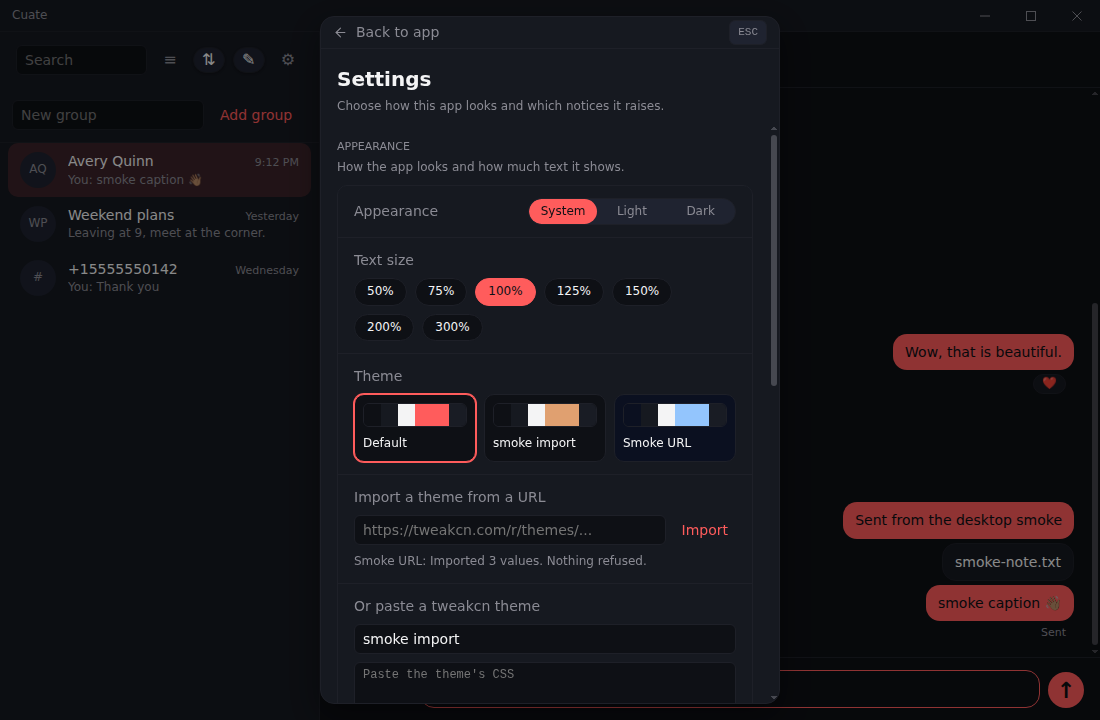
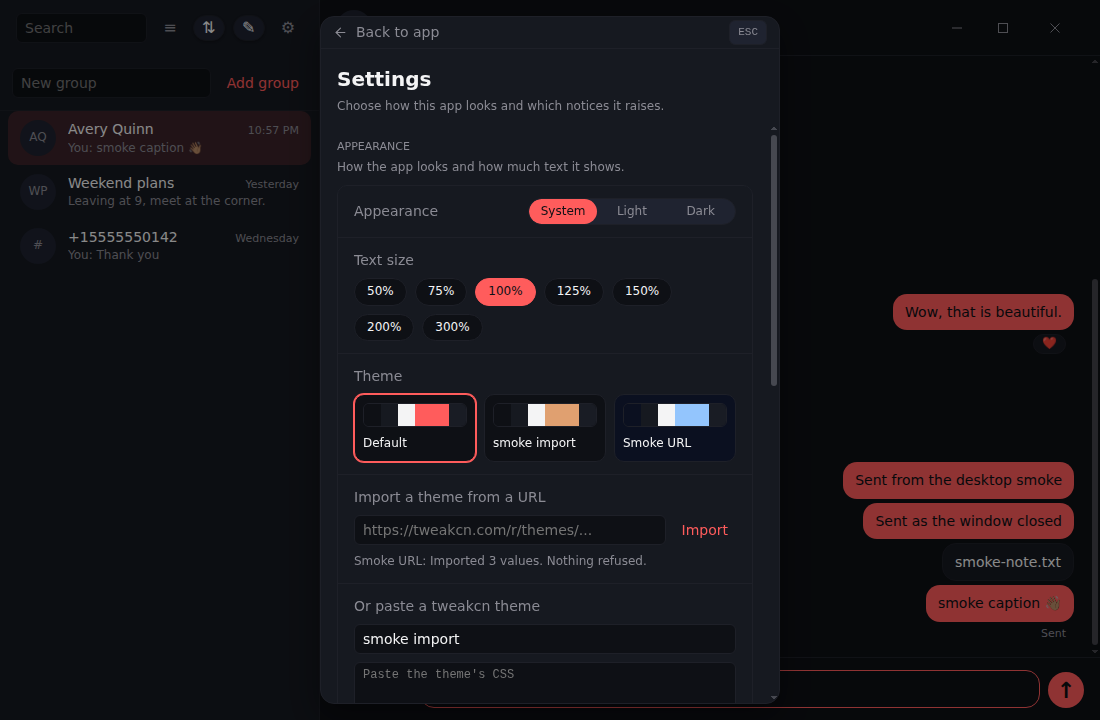
fix(app): the sidebar Add group control stays on one line, and the theme picker captures are retaken (#124)
* fix(app): the sidebar's Add group control stays on one line

The Add group button sat in a flex row beside the new group field with no
nowrap and the default shrink, so whenever the row ran short (a scrollbar in
the list on Linux, a larger text size) the field kept its width and the label
broke onto two lines. The field now gives way first and the label keeps the
width it needs; where the label alone would need more than half the row, as at
300% text in the fixed-width sidebar, it shortens with an ellipsis like the
chat names in the same column, and its title carries the whole label. What the
control does is unchanged.

The desktop smoke now holds it on every desktop platform: at the smallest
window the shell allows and at 50, 100, 200 and 300% text it counts the
label's lines and checks the button's height against one line, and at 100% it
requires the full label. It captures the control at 100, 200 and 300%.

Fixes #122

* docs(proof): retake the theme picker and Linux window chrome captures

The theme picker captures from #119 were taken before #116 merged, so they
still showed the old window bar; the Linux window chrome capture from #116
showed the Add group label wrapped. All three are retaken from this branch's CI
(the ubuntu desktop smoke and the window chrome proof), and the Add group
control is captured at 100, 200 and 300% text at the smallest window: Linux at
each size, macOS and Windows at 300%. Fixture data only.

diff --git a/desktop/src/main.js b/desktop/src/main.js
@@ -362,6 +362,44 @@ async function runSmoke(w) {
   const cdp = (method, params) => wc.debugger.sendCommand(method, params);
   const putSettings = (values) => fetch(srv + '/api/v1/settings', { method: 'PUT', headers: { ...auth, 'content-type': 'application/json' }, body: JSON.stringify({ values }) });
 
+  // The sidebar's Add group control stays on one line (issue 122): at the smallest window the shell allows and at every
+  // text size from 50% to 300%, the label renders as one line, in full at 100%, and shortens with an ellipsis rather
+  // than wrapping where the row is too narrow for it. The line count is read from the label's own text boxes and
+  // checked against the button's height, so a wrap fails here on whichever platform drew it.
+  if (!wc.debugger.isAttached()) wc.debugger.attach('1.3');
+  const [minW, minH] = w.getMinimumSize();
+  await cdp('Emulation.setDeviceMetricsOverride', { width: minW, height: minH, deviceScaleFactor: 1, mobile: false });
+  const addGroupLine = () => js(`(() => {
+    const b = document.querySelector('.add-group .add-group-button');
+    if (!b) return null;
+    const s = getComputedStyle(b);
+    const size = parseFloat(s.fontSize);
+    const line = parseFloat(s.lineHeight) || size * 1.2;
+    const inner = b.getBoundingClientRect().height - ['paddingTop', 'paddingBottom', 'borderTopWidth', 'borderBottomWidth'].reduce((n, k) => n + (parseFloat(s[k]) || 0), 0);
+    const range = document.createRange();
+    range.selectNodeContents(b);
+    const lines = new Set([...range.getClientRects()].filter((r) => r.width > 0).map((r) => Math.round(r.top))).size;
+    return { size, line, inner, lines, full: b.scrollWidth <= b.clientWidth, label: b.textContent.trim(), title: b.title, wide: window.innerWidth };
+  })()`);
+  const addGroupSizes = {};
+  const labelPx = "parseFloat(getComputedStyle(document.querySelector('.add-group .add-group-button')).fontSize)";
+  const plainLabel = await js(labelPx);
+  for (const scale of [50, 100, 200, 300]) {
+    const scaleSet = await putSettings({ 'appearance.textScale': scale });
+    if (!scaleSet.ok) throw new Error('the server refused the text size write: ' + scaleSet.status);
+    await waitFor('Math.abs(' + labelPx + ' - ' + (plainLabel * scale / 100) + ') < 0.6', 10000);
+    await pause(200);
+    const m = await addGroupLine();
+    addGroupSizes[scale] = m;
+    if (scale !== 50) await shot('10-add-group-' + scale + '.png');
+  }
+  await putSettings({ 'appearance.textScale': 100 });
+  await waitFor('Math.abs(' + labelPx + ' - ' + plainLabel + ') < 0.6', 10000);
+  await cdp('Emulation.clearDeviceMetricsOverride', {});
+  report.addGroup = Object.values(addGroupSizes).every((m) => m && m.lines === 1 && m.inner < m.line * 1.5 && m.label === 'Add group' && m.title === 'Add group' && m.wide === minW)
+    && addGroupSizes[100].full;
+  console.log('add group: ' + JSON.stringify({ minW, minH, sizes: addGroupSizes }));
+
   await js("document.querySelector('.sidebar-head .gear-button').click()");
   // The skin is a three-position switch (System, Light, Dark), one radio per position, not a dropdown (issue 112).
   const skinInput = (v) => "document.querySelector('app-settings input[data-key=\"appearance.skin\"][value=\"" + v + "\"]')";

diff --git a/core/app/styles/app.css b/core/app/styles/app.css
@@ -246,7 +246,13 @@ app-sheet { display: flex; flex-direction: column; flex: 1 1 auto; min-height: 0
 .active-filters { display: flex; flex-wrap: wrap; gap: var(--space-1); }
 .active-chip { display: inline-flex; align-items: center; gap: var(--space-1); background: var(--color-selection); border-radius: var(--radius-pill); padding: var(--space-1) var(--space-2); font-size: var(--font-size-sm); }
 .chip-clear { background: none; border: 0; color: var(--color-fg-muted); cursor: pointer; font-size: var(--font-size-sm); line-height: 1; padding: 0 var(--space-1); }
+/* Add group stays on one line at every width and text size (issue 122). The name field gives way first: its basis is
+   nothing, so the label takes the width it needs and the field takes the rest. Where the label alone would need more
+   than half the row (a large text size in the fixed-width sidebar), it shortens with an ellipsis, as the chat names in
+   the same column do, and its title still carries the whole label. */
 .add-group { display: flex; align-items: center; gap: var(--space-2); }
+.add-group .new-group-name { flex: 1 1 0; }
+.add-group-button { flex: 0 1 auto; max-width: 50%; min-width: 0; white-space: nowrap; overflow: hidden; text-overflow: ellipsis; }
 .chat-sections { display: flex; flex-direction: column; }
 .section-head { display: flex; align-items: center; justify-content: space-between; gap: var(--space-2); padding: var(--space-2) var(--space-3) 0; }
 .section-name { font-size: var(--font-size-xs); font-weight: var(--font-weight-medium); text-transform: uppercase; color: var(--color-fg-muted); }

diff --git a/core/app/components/app-chat-list.js b/core/app/components/app-chat-list.js
@@ -112,7 +112,7 @@ class AppChatList extends KitElement {
     return html`<div class="list-tools">
       <div class="add-group">
         <input class="new-group-name" type="text" placeholder="New group" aria-label="New group name" @keydown=${(e) => { if (e.key === 'Enter') this.createGroup(); }}>
-        <button type="button" class="text-button" @click=${() => this.createGroup()}>Add group</button>
+        <button type="button" class="text-button add-group-button" title="Add group" @click=${() => this.createGroup()}>Add group</button>
       </div>
     </div>`;
   }
